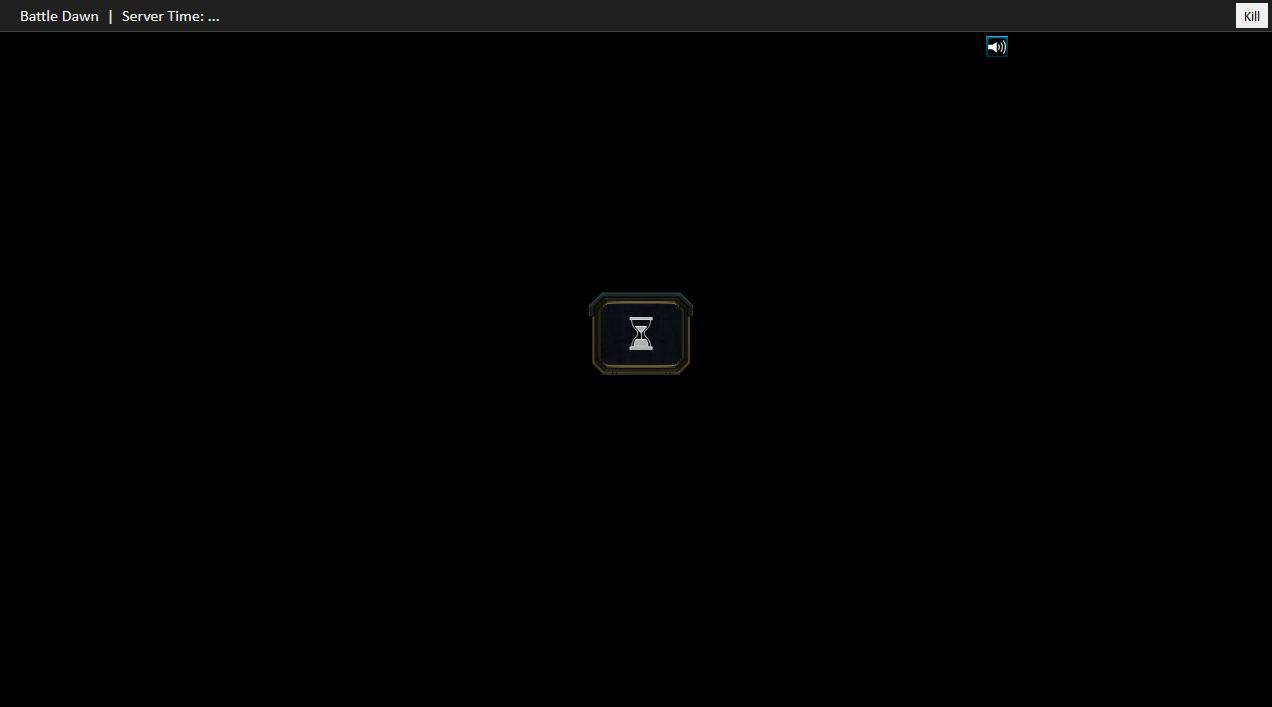
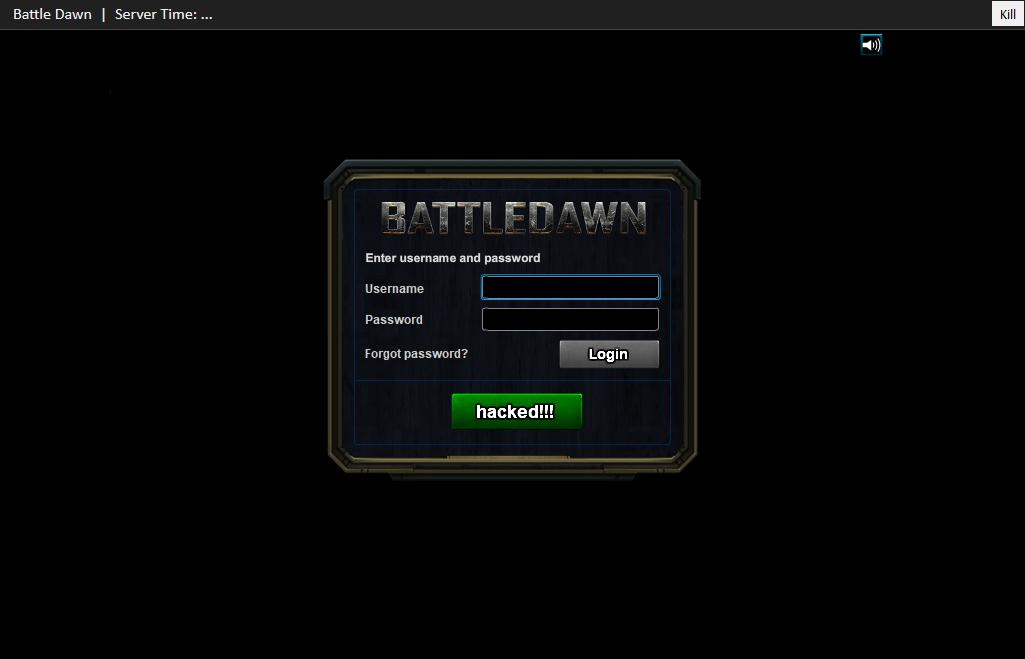
Update README.md

diff --git a/README.md b/README.md
@@ -6,6 +6,8 @@ Server emulator for Battle Dawn, which was closed in 2026.
 
 This server is not functioning yet because it's a work in progress.
 
+Currently in the login screen.
+
 *This project tries to reconstruct the game server-side behavior. Client files and assets are not included. This project is not official and is not associated with the original creators.*
 
 Made with [Encore](https://github.com/glennhenry/Encore).
